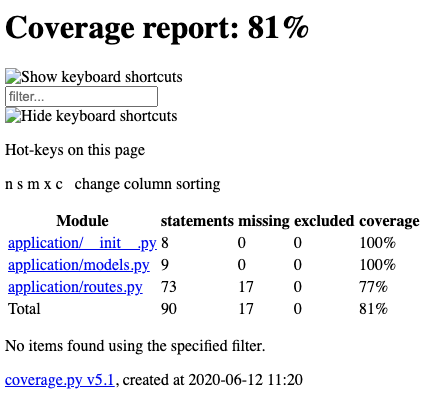
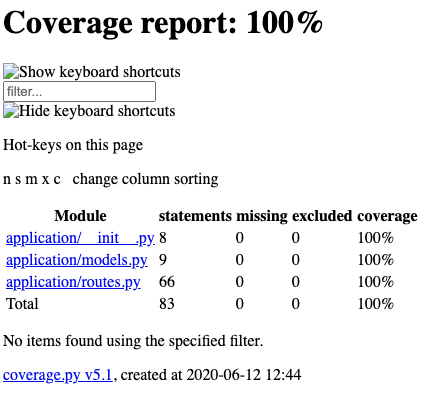
acheived 100% coverage

diff --git a/Service 4/test_results/coverage - service 4.html b/Service 4/test_results/coverage - service 4.html
@@ -17,7 +17,7 @@
 <div id="header">
     <div class="content">
         <h1>Coverage report:
-            <span class="pc_cov">81%</span>
+            <span class="pc_cov">100%</span>
         </h1>
         <img id="keyboard_icon" src="keybd_closed.png" alt="Show keyboard shortcuts" />
         <form id="filter_container">
@@ -52,10 +52,10 @@
         <tfoot>
             <tr class="total">
                 <td class="name left">Total</td>
-                <td>90</td>
-                <td>17</td>
+                <td>83</td>
                 <td>0</td>
-                <td class="right" data-ratio="73 90">81%</td>
+                <td>0</td>
+                <td class="right" data-ratio="83 83">100%</td>
             </tr>
         </tfoot>
         <tbody>
@@ -75,10 +75,10 @@
             </tr>
             <tr class="file">
                 <td class="name left"><a href="application_routes_py.html">application/routes.py</a></td>
-                <td>73</td>
-                <td>17</td>
+                <td>66</td>
                 <td>0</td>
-                <td class="right" data-ratio="56 73">77%</td>
+                <td>0</td>
+                <td class="right" data-ratio="66 66">100%</td>
             </tr>
         </tbody>
     </table>
@@ -90,7 +90,7 @@
     <div class="content">
         <p>
             <a class="nav" href="https://coverage.readthedocs.io">coverage.py v5.1</a>,
-            created at 2020-06-12 11:20
+            created at 2020-06-12 12:44
         </p>
     </div>
 </div>

diff --git a/Service 4/tests/test_back_end.py b/Service 4/tests/test_back_end.py
@@ -3,7 +3,6 @@ from flask_testing import TestCase
 from application import app, db, routes
 from application.models import Discounts
 from os import getenv
-from unittest.mock import patch
 import unittest
 
 
@@ -46,152 +45,47 @@ class TestRepr(TestBase):
 
 class TestData(TestBase):
 
-    def test_Mercedes(self):
-        assert routes.discount() == "Congratulations!!! You have unlocked a Black Mercedes which has won you a discount of: 6% off!!"
-        assert routes.discount() == "Congratulations!!! You have unlocked a White Mercedes which has won you a discount of: 8% off!!"
-        assert routes.discount() == "Congratulations!!! You have unlocked a Grey Mercedes which has won you a discount of: 10% off!!"
-        assert routes.discount() == "Congratulations!!! You have unlocked a Blue Mercedes which has won you a discount of: 12% off!!"
-        assert routes.discount() == "Congratulations!!! You have unlocked a Red Mercedes which has won you a discount of: 14% off!!"
-        assert routes.discount() == "Congratulations!!! You have unlocked a Yellow Mercedes which has won you a discount of: 16% off!!"
-        assert routes.discount() == "Congratulations!!! You have unlocked a Silver Mercedes which has won you a discount of: 18% off!!"
-        assert routes.discount() == "Congratulations!!! You have unlocked a Snakeskin Mercedes which has won you a discount of: 7% off!!"
-        assert routes.discount() == "Congratulations!!! You have unlocked a Leopard print Mercedes which has won you a discount of: 9% off!!"
-        assert routes.discount() == "Congratulations!!! You have unlocked a Flames Mercedes which has won you a discount of: 11% off!!"
-        assert routes.discount() == "Congratulations!!! You have unlocked a Two tone Mercedes which has won you a discount of: 13% off!!"
-        assert routes.discount() == "Congratulations!!! You have unlocked a Green camo Mercedes which has won you a discount of: 15% off!!"
-        assert routes.discount() == "Congratulations!!! You have unlocked a Steampunk Mercedes which has won you a discount of: 17% off!!"
+    def test_Mercedes_and_Paintjobs(self):
+        assert routes.discount('Black', 'Mercedes', False) == "Congratulations!!! You have unlocked a Black Mercedes which has won you a discount of: 6% off!!"
+        assert routes.discount('White', 'Mercedes', False) == "Congratulations!!! You have unlocked a White Mercedes which has won you a discount of: 8% off!!"
+        assert routes.discount('Grey', 'Mercedes', False) == "Congratulations!!! You have unlocked a Grey Mercedes which has won you a discount of: 10% off!!"
+        assert routes.discount('Blue', 'Mercedes', False) == "Congratulations!!! You have unlocked a Blue Mercedes which has won you a discount of: 12% off!!"
+        assert routes.discount('Red', 'Mercedes', False) == "Congratulations!!! You have unlocked a Red Mercedes which has won you a discount of: 14% off!!"
+        assert routes.discount('Yellow', 'Mercedes', False) == "Congratulations!!! You have unlocked a Yellow Mercedes which has won you a discount of: 16% off!!"
+        assert routes.discount('Silver', 'Mercedes', False) == "Congratulations!!! You have unlocked a Silver Mercedes which has won you a discount of: 18% off!!"
+        assert routes.discount('Snakeskin', 'Mercedes', False) == "Congratulations!!! You have unlocked a Snakeskin Mercedes which has won you a discount of: 7% off!!"
+        assert routes.discount('Leopard print', 'Mercedes', False) == "Congratulations!!! You have unlocked a Leopard print Mercedes which has won you a discount of: 9% off!!"
+        assert routes.discount('Flames', 'Mercedes', False) == "Congratulations!!! You have unlocked a Flames Mercedes which has won you a discount of: 11% off!!"
+        assert routes.discount('Two tone', 'Mercedes', False) == "Congratulations!!! You have unlocked a Two tone Mercedes which has won you a discount of: 13% off!!"
+        assert routes.discount('Green camo', 'Mercedes', False) == "Congratulations!!! You have unlocked a Green camo Mercedes which has won you a discount of: 15% off!!"
+        assert routes.discount('Steampunk', 'Mercedes', False) == "Congratulations!!! You have unlocked a Steampunk Mercedes which has won you a discount of: 17% off!!"
 
     def test_Audi(self):
-        assert routes.discount() == "Congratulations!!! You have unlocked a Black Audi which has won you a discount of: 11% off!!"
-        assert routes.discount() == "Congratulations!!! You have unlocked a White Audi which has won you a discount of: 13% off!!"
-        assert routes.discount() == "Congratulations!!! You have unlocked a Grey Audi which has won you a discount of: 15% off!!"
-        assert routes.discount() == "Congratulations!!! You have unlocked a Blue Audi which has won you a discount of: 17% off!!"
-        assert routes.discount() == "Congratulations!!! You have unlocked a Red Audi which has won you a discount of: 19% off!!"
-        assert routes.discount() == "Congratulations!!! You have unlocked a Yellow Audi which has won you a discount of: 21% off!!"
-        assert routes.discount() == "Congratulations!!! You have unlocked a Silver Audi which has won you a discount of: 23% off!!"
-        assert routes.discount() == "Congratulations!!! You have unlocked a Snakeskin Audi which has won you a discount of: 12% off!!"
-        assert routes.discount() == "Congratulations!!! You have unlocked a Leopard print Audi which has won you a discount of: 14% off!!"
-        assert routes.discount() == "Congratulations!!! You have unlocked a Flames Audi which has won you a discount of: 16% off!!"
-        assert routes.discount() == "Congratulations!!! You have unlocked a Two tone Audi which has won you a discount of: 18% off!!"
-        assert routes.discount() == "Congratulations!!! You have unlocked a Green camo Audi which has won you a discount of: 20% off!!"
-        assert routes.discount() == "Congratulations!!! You have unlocked a Steampunk Audi which has won you a discount of: 22% off!!"
+        assert routes.discount('Black', 'Audi', False) == "Congratulations!!! You have unlocked a Black Audi which has won you a discount of: 11% off!!"
     
     def test_BMW(self):
-        assert routes.discount() == "Congratulations!!! You have unlocked a Black BMW which has won you a discount of: 16% off!!"
-        assert routes.discount() == "Congratulations!!! You have unlocked a White BMW which has won you a discount of: 18% off!!"
-        assert routes.discount() == "Congratulations!!! You have unlocked a Grey BMW which has won you a discount of: 20% off!!"
-        assert routes.discount() == "Congratulations!!! You have unlocked a Blue BMW which has won you a discount of: 22% off!!"
-        assert routes.discount() == "Congratulations!!! You have unlocked a Red BMW which has won you a discount of: 24% off!!"
-        assert routes.discount() == "Congratulations!!! You have unlocked a Yellow BMW which has won you a discount of: 26% off!!"
-        assert routes.discount() == "Congratulations!!! You have unlocked a Silver BMW which has won you a discount of: 28% off!!"
-        assert routes.discount() == "Congratulations!!! You have unlocked a Snakeskin BMW which has won you a discount of: 17% off!!"
-        assert routes.discount() == "Congratulations!!! You have unlocked a Leopard print BMW which has won you a discount of: 19% off!!"
-        assert routes.discount() == "Congratulations!!! You have unlocked a Flames BMW which has won you a discount of: 21% off!!"
-        assert routes.discount() == "Congratulations!!! You have unlocked a Two tone BMW which has won you a discount of: 23% off!!"
-        assert routes.discount() == "Congratulations!!! You have unlocked a Green camo BMW which has won you a discount of: 25% off!!"
-        assert routes.discount() == "Congratulations!!! You have unlocked a Steampunk BMW which has won you a discount of: 27% off!!"
+        assert routes.discount('Black', 'BMW', False) == "Congratulations!!! You have unlocked a Black BMW which has won you a discount of: 16% off!!"
 
     def test_Honda(self):
-        assert routes.discount() == "Congratulations!!! You have unlocked a Black Honda which has won you a discount of: 26% off!!"
-        assert routes.discount() == "Congratulations!!! You have unlocked a White Honda which has won you a discount of: 28% off!!"
-        assert routes.discount() == "Congratulations!!! You have unlocked a Grey Honda which has won you a discount of: 30% off!!"
-        assert routes.discount() == "Congratulations!!! You have unlocked a Blue Honda which has won you a discount of: 32% off!!"
-        assert routes.discount() == "Congratulations!!! You have unlocked a Red Honda which has won you a discount of: 34% off!!"
-        assert routes.discount() == "Congratulations!!! You have unlocked a Yellow Honda which has won you a discount of: 36% off!!"
-        assert routes.discount() == "Congratulations!!! You have unlocked a Silver Honda which has won you a discount of: 38% off!!"
-        assert routes.discount() == "Congratulations!!! You have unlocked a Snakeskin Honda which has won you a discount of: 27% off!!"
-        assert routes.discount() == "Congratulations!!! You have unlocked a Leopard print Honda which has won you a discount of: 29% off!!"
-        assert routes.discount() == "Congratulations!!! You have unlocked a Flames Honda which has won you a discount of: 31% off!!"
-        assert routes.discount() == "Congratulations!!! You have unlocked a Two tone Honda which has won you a discount of: 33% off!!"
-        assert routes.discount() == "Congratulations!!! You have unlocked a Green camo Honda which has won you a discount of: 35% off!!"
-        assert routes.discount() == "Congratulations!!! You have unlocked a Steampunk Honda which has won you a discount of: 37% off!!"
+        assert routes.discount('Black', 'Honda', False) == "Congratulations!!! You have unlocked a Black Honda which has won you a discount of: 26% off!!"
 
     def test_VW(self):
-        assert routes.discount() == "Congratulations!!! You have unlocked a Black Volkswagen which has won you a discount of: 21% off!!"
-        assert routes.discount() == "Congratulations!!! You have unlocked a White Volkswagen which has won you a discount of: 23% off!!"
-        assert routes.discount() == "Congratulations!!! You have unlocked a Grey Volkswagen which has won you a discount of: 25% off!!"
-        assert routes.discount() == "Congratulations!!! You have unlocked a Blue Volkswagen which has won you a discount of: 27% off!!"
-        assert routes.discount() == "Congratulations!!! You have unlocked a Red Volkswagen which has won you a discount of: 29% off!!"
-        assert routes.discount() == "Congratulations!!! You have unlocked a Yellow Volkswagen which has won you a discount of: 31% off!!"
-        assert routes.discount() == "Congratulations!!! You have unlocked a Silver Volkswagen which has won you a discount of: 33% off!!"
-        assert routes.discount() == "Congratulations!!! You have unlocked a Snakeskin Volkswagen which has won you a discount of: 22% off!!"
-        assert routes.discount() == "Congratulations!!! You have unlocked a Leopard print Volkswagen which has won you a discount of: 24% off!!"
-        assert routes.discount() == "Congratulations!!! You have unlocked a Flames Volkswagen which has won you a discount of: 26% off!!"
-        assert routes.discount() == "Congratulations!!! You have unlocked a Two tone Volkswagen which has won you a discount of: 28% off!!"
-        assert routes.discount() == "Congratulations!!! You have unlocked a Green camo Volkswagen which has won you a discount of: 30% off!!"
-        assert routes.discount() == "Congratulations!!! You have unlocked a Steampunk Volkswagen which has won you a discount of: 32% off!!"
+        assert routes.discount('Black', 'Volkswagen', False) == "Congratulations!!! You have unlocked a Black Volkswagen which has won you a discount of: 21% off!!"
 
     def test_Yamaha(self):
-        assert routes.discount() == "Congratulations!!! You have unlocked a Black Yamaha which has won you a discount of: 8% off!!"
-        assert routes.discount() == "Congratulations!!! You have unlocked a White Yamaha which has won you a discount of: 10% off!!"
-        assert routes.discount() == "Congratulations!!! You have unlocked a Grey Yamaha which has won you a discount of: 12% off!!"
-        assert routes.discount() == "Congratulations!!! You have unlocked a Blue Yamaha which has won you a discount of: 14% off!!"
-        assert routes.discount() == "Congratulations!!! You have unlocked a Red Yamaha which has won you a discount of: 16% off!!"
-        assert routes.discount() == "Congratulations!!! You have unlocked a Yellow Yamaha which has won you a discount of: 18% off!!"
-        assert routes.discount() == "Congratulations!!! You have unlocked a Silver Yamaha which has won you a discount of: 20% off!!"
-        assert routes.discount() == "Congratulations!!! You have unlocked a Snakeskin Yamaha which has won you a discount of: 9% off!!"
-        assert routes.discount() == "Congratulations!!! You have unlocked a Leopard print Yamaha which has won you a discount of:11% off!!"
-        assert routes.discount() == "Congratulations!!! You have unlocked a Flames Yamaha which has won you a discount of: 13% off!!"
-        assert routes.discount() == "Congratulations!!! You have unlocked a Two tone Yamaha which has won you a discount of: 15% off!!"
-        assert routes.discount() == "Congratulations!!! You have unlocked a Green camo Yamaha which has won you a discount of: 17% off!!"
-        assert routes.discount() == "Congratulations!!! You have unlocked a Steampunk Yamaha which has won you a discount of: 19% off!!"
+        assert routes.discount('Black', 'Yamaha', False) == "Congratulations!!! You have unlocked a Black Yamaha which has won you a discount of: 8% off!!"
 
     def test_Kawasaki(self):
-        assert routes.discount() == "Congratulations!!! You have unlocked a Black Kawasaki which has won you a discount of: 13% off!!"
-        assert routes.discount() == "Congratulations!!! You have unlocked a White Kawasaki which has won you a discount of: 15% off!!"
-        assert routes.discount() == "Congratulations!!! You have unlocked a Grey Kawasaki which has won you a discount of: 17% off!!"
-        assert routes.discount() == "Congratulations!!! You have unlocked a Blue Kawasaki which has won you a discount of: 19% off!!"
-        assert routes.discount() == "Congratulations!!! You have unlocked a Red Kawasaki which has won you a discount of: 21% off!!"
-        assert routes.discount() == "Congratulations!!! You have unlocked a Yellow Kawasaki which has won you a discount of: 23% off!!"
-        assert routes.discount() == "Congratulations!!! You have unlocked a Silver Kawasaki which has won you a discount of: 25% off!!"
-        assert routes.discount() == "Congratulations!!! You have unlocked a Snakeskin Kawasaki which has won you a discount of: 14% off!!"
-        assert routes.discount() == "Congratulations!!! You have unlocked a Leopard print Kawasaki which has won you a discount of: 16% off!!"
-        assert routes.discount() == "Congratulations!!! You have unlocked a Flames Kawasaki which has won you a discount of: 18% off!!"
-        assert routes.discount() == "Congratulations!!! You have unlocked a Two tone Kawasaki which has won you a discount of: 20% off!!"
-        assert routes.discount() == "Congratulations!!! You have unlocked a Green camo Kawasaki which has won you a discount of: 22% off!!"
-        assert routes.discount() == "Congratulations!!! You have unlocked a Steampunk Kawasaki which has won you a discount of: 24% off!!"
+        assert routes.discount('Black', 'Kawasaki', False) == "Congratulations!!! You have unlocked a Black Kawasaki which has won you a discount of: 13% off!!"
     
     def test_Ducati(self):
-        assert routes.discount() == "Congratulations!!! You have unlocked a Black Ducati which has won you a discount of: 18% off!!"
-        assert routes.discount() == "Congratulations!!! You have unlocked a White Ducati which has won you a discount of: 20% off!!"
-        assert routes.discount() == "Congratulations!!! You have unlocked a Grey Ducati which has won you a discount of: 22% off!!"
-        assert routes.discount() == "Congratulations!!! You have unlocked a Blue Ducati which has won you a discount of: 24% off!!"
-        assert routes.discount() == "Congratulations!!! You have unlocked a Red Ducati which has won you a discount of: 26% off!!"
-        assert routes.discount() == "Congratulations!!! You have unlocked a Yellow Ducati which has won you a discount of: 28% off!!"
-        assert routes.discount() == "Congratulations!!! You have unlocked a Silver Ducati which has won you a discount of: 30% off!!"
-        assert routes.discount() == "Congratulations!!! You have unlocked a Snakeskin Ducati which has won you a discount of: 19% off!!"
-        assert routes.discount() == "Congratulations!!! You have unlocked a Leopard print Ducati which has won you a discount of: 21% off!!"
-        assert routes.discount() == "Congratulations!!! You have unlocked a Flames Ducati which has won you a discount of: 23% off!!"
-        assert routes.discount() == "Congratulations!!! You have unlocked a Two tone Ducati which has won you a discount of: 25% off!!"
-        assert routes.discount() == "Congratulations!!! You have unlocked a Green camo Ducati which has won you a discount of: 27% off!!"
-        assert routes.discount() == "Congratulations!!! You have unlocked a Steampunk Ducati which has won you a discount of: 29% off!!"
+        assert routes.discount('Black', 'Ducati', False) == "Congratulations!!! You have unlocked a Black Ducati which has won you a discount of: 18% off!!"
 
     def test_Suzuki(self):
-        assert routes.discount() == "Congratulations!!! You have unlocked a Black Suzuki which has won you a discount of: 28% off!!"
-        assert routes.discount() == "Congratulations!!! You have unlocked a White Suzuki which has won you a discount of: 30% off!!"
-        assert routes.discount() == "Congratulations!!! You have unlocked a Grey Suzuki which has won you a discount of: 32% off!!"
-        assert routes.discount() == "Congratulations!!! You have unlocked a Blue Suzuki which has won you a discount of: 34% off!!"
-        assert routes.discount() == "Congratulations!!! You have unlocked a Red Suzuki which has won you a discount of: 36% off!!"
-        assert routes.discount() == "Congratulations!!! You have unlocked a Yellow Suzuki which has won you a discount of: 38% off!!"
-        assert routes.discount() == "Congratulations!!! You have unlocked a Silver Suzuki which has won you a discount of: 40% off!!"
-        assert routes.discount() == "Congratulations!!! You have unlocked a Snakeskin Suzuki which has won you a discount of: 29% off!!"
-        assert routes.discount() == "Congratulations!!! You have unlocked a Leopard print Suzuki which has won you a discount of: 31% off!!"
-        assert routes.discount() == "Congratulations!!! You have unlocked a Flames Suzuki which has won you a discount of: 33% off!!"
-        assert routes.discount() == "Congratulations!!! You have unlocked a Two tone Suzuki which has won you a discount of: 35% off!!"
-        assert routes.discount() == "Congratulations!!! You have unlocked a Green camo Suzuki which has won you a discount of: 37% off!!"
-        assert routes.discount() == "Congratulations!!! You have unlocked a Steampunk Suzuki which has won you a discount of: 39% off!!"
+        assert routes.discount('Black', 'Suzuki', False) == "Congratulations!!! You have unlocked a Black Suzuki which has won you a discount of: 28% off!!"
 
     def test_HarleyDavidson(self):
-        assert routes.discount() == "Congratulations!!! You have unlocked a Black Harley Davidson which has won you a discount of: 23% off!!"
-        assert routes.discount() == "Congratulations!!! You have unlocked a White Harley Davidson which has won you a discount of: 25% off!!"
-        assert routes.discount() == "Congratulations!!! You have unlocked a Grey Harley Davidson which has won you a discount of: 27% off!!"
-        assert routes.discount() == "Congratulations!!! You have unlocked a Blue Harley Davidson which has won you a discount of: 29% off!!"
-        assert routes.discount() == "Congratulations!!! You have unlocked a Red Harley Davidson which has won you a discount of: 31% off!!"
-        assert routes.discount() == "Congratulations!!! You have unlocked a Yellow Harley Davidson which has won you a discount of: 33% off!!"
-        assert routes.discount() == "Congratulations!!! You have unlocked a Silver Harley Davidson which has won you a discount of: 35% off!!"
-        assert routes.discount() == "Congratulations!!! You have unlocked a Snakeskin Harley Davidson which has won you a discount of: 24% off!!"
-        assert routes.discount() == "Congratulations!!! You have unlocked a Leopard print Harley Davidson which has won you a discount of: 26% off!!"
-        assert routes.discount() == "Congratulations!!! You have unlocked a Flames Harley Davidson which has won you a discount of: 28% off!!"
-        assert routes.discount() == "Congratulations!!! You have unlocked a Two tone Harley Davidson which has won you a discount of: 30% off!!"
-        assert routes.discount() == "Congratulations!!! You have unlocked a Green camo Harley Davidson which has won you a discount of: 32% off!!"
-        assert routes.discount() == "Congratulations!!! You have unlocked a Steampunk Harley Davidson which has won you a discount of: 34% off!!"
+        assert routes.discount('Black', 'Harley Davidson', False) == "Congratulations!!! You have unlocked a Black Harley Davidson which has won you a discount of: 23% off!!"
+
+    def test_superdiscount(self):
+        assert routes.discount('Black', 'Mercedes', True) == "Congratulations!!! You have unlocked a Black Mercedes which has won you a super discount of: 8% off!!!!!"

diff --git a/Service 4/application/routes.py b/Service 4/application/routes.py
@@ -32,10 +32,8 @@ def discount():
         v_discount = 17
     elif vehicle == 'Harley Davidson':
         v_discount = 22
-    elif vehicle == 'Suzuki':
-        v_discount = 27
     else:
-        v_discount = 0
+        v_discount = 27
 
     if paintjob == 'Black':
         p_discount = 1
@@ -61,10 +59,8 @@ def discount():
         p_discount = 8
     elif paintjob == 'Green camo':
         p_discount = 10
-    elif paintjob == 'Steampunk':
-        p_discount = 12
     else:
-        p_discount = 0
+        p_discount = 12
 
     if not generous:
 
